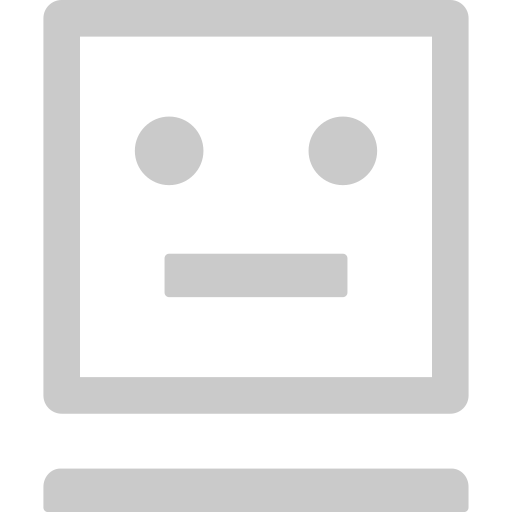
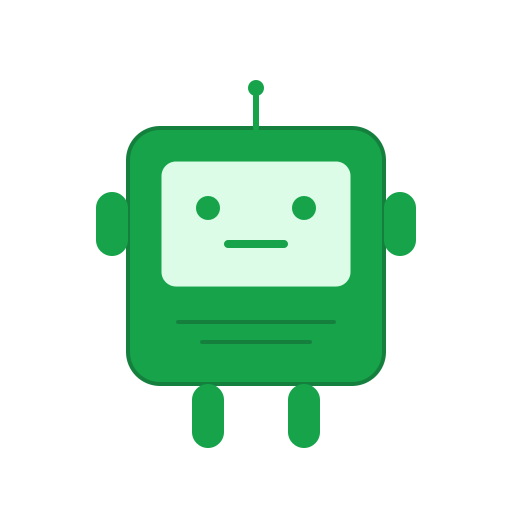
✨ feat(desktop): 添加更暗绿色机器人图标生成脚本
- 新增脚本以创建更暗绿色机器人图标的SVG并转换为PNG格式
- 生成的图标文件保存至build目录，并复制到resources目录
- 更新聊天界面样式，使用更暗绿色以提升视觉一致性

diff --git a/desktop/create-darker-green-icon.js b/desktop/create-darker-green-icon.js
@@ -1,0 +1,60 @@
+const sharp = require('sharp');
+const fs = require('fs');
+
+// 创建更暗绿色机器人图标的SVG
+const darkerGreenRobotSvg = `<svg width="512" height="512" viewBox="0 0 512 512" xmlns="http://www.w3.org/2000/svg">
+  <!-- 机器人主体 -->
+  <rect x="128" y="128" width="256" height="256" rx="32" fill="#16a34a" stroke="#15803d" stroke-width="4"/>
+
+  <!-- 机器人头部（显示器） -->
+  <rect x="160" y="160" width="192" height="128" rx="16" fill="#dcfce7" stroke="#16a34a" stroke-width="3"/>
+
+  <!-- 眼睛 -->
+  <circle cx="208" cy="208" r="12" fill="#16a34a"/>
+  <circle cx="304" cy="208" r="12" fill="#16a34a"/>
+
+  <!-- 嘴巴 -->
+  <rect x="224" y="240" width="64" height="8" rx="4" fill="#16a34a"/>
+
+  <!-- 天线 -->
+  <line x1="256" y1="128" x2="256" y2="96" stroke="#16a34a" stroke-width="6" stroke-linecap="round"/>
+  <circle cx="256" cy="88" r="8" fill="#16a34a"/>
+
+  <!-- 手臂 -->
+  <rect x="96" y="192" width="32" height="64" rx="16" fill="#16a34a"/>
+  <rect x="384" y="192" width="32" height="64" rx="16" fill="#16a34a"/>
+
+  <!-- 腿部 -->
+  <rect x="192" y="384" width="32" height="64" rx="16" fill="#16a34a"/>
+  <rect x="288" y="384" width="32" height="64" rx="16" fill="#16a34a"/>
+
+  <!-- 身体装饰线条 -->
+  <rect x="176" y="320" width="160" height="4" rx="2" fill="#15803d"/>
+  <rect x="200" y="340" width="112" height="4" rx="2" fill="#15803d"/>
+</svg>`;
+
+// 保存SVG文件用于调试
+fs.writeFileSync('darker-green-robot-icon.svg', darkerGreenRobotSvg);
+
+// 转换为PNG
+sharp(Buffer.from(darkerGreenRobotSvg))
+  .png()
+  .toFile('build/icon.png')
+  .then(() => {
+    console.log('✅ 更暗绿色机器人图标已生成');
+
+    // 复制到resources目录
+    fs.copyFileSync('build/icon.png', 'resources/icon.png');
+    console.log('✅ 已复制到resources目录');
+
+    // 检查文件大小
+    const stats = fs.statSync('build/icon.png');
+    console.log('图标文件大小:', (stats.size / 1024).toFixed(2), 'KB');
+
+    // 清理临时文件
+    fs.unlinkSync('create-darker-green-icon.js');
+  })
+  .catch(err => {
+    console.error('❌ 生成失败:', err);
+    fs.unlinkSync('create-darker-green-icon.js');
+  });

diff --git a/desktop/create-green-icon.js b/desktop/create-green-icon.js
@@ -1,0 +1,60 @@
+const sharp = require('sharp');
+const fs = require('fs');
+
+// 创建绿色机器人图标的SVG
+const greenRobotSvg = `<svg width="512" height="512" viewBox="0 0 512 512" xmlns="http://www.w3.org/2000/svg">
+  <!-- 机器人主体 -->
+  <rect x="128" y="128" width="256" height="256" rx="32" fill="#4ade80" stroke="#22c55e" stroke-width="4"/>
+
+  <!-- 机器人头部（显示器） -->
+  <rect x="160" y="160" width="192" height="128" rx="16" fill="#dcfce7" stroke="#4ade80" stroke-width="3"/>
+
+  <!-- 眼睛 -->
+  <circle cx="208" cy="208" r="12" fill="#4ade80"/>
+  <circle cx="304" cy="208" r="12" fill="#4ade80"/>
+
+  <!-- 嘴巴 -->
+  <rect x="224" y="240" width="64" height="8" rx="4" fill="#4ade80"/>
+
+  <!-- 天线 -->
+  <line x1="256" y1="128" x2="256" y2="96" stroke="#4ade80" stroke-width="6" stroke-linecap="round"/>
+  <circle cx="256" cy="88" r="8" fill="#4ade80"/>
+
+  <!-- 手臂 -->
+  <rect x="96" y="192" width="32" height="64" rx="16" fill="#4ade80"/>
+  <rect x="384" y="192" width="32" height="64" rx="16" fill="#4ade80"/>
+
+  <!-- 腿部 -->
+  <rect x="192" y="384" width="32" height="64" rx="16" fill="#4ade80"/>
+  <rect x="288" y="384" width="32" height="64" rx="16" fill="#4ade80"/>
+
+  <!-- 身体装饰线条 -->
+  <rect x="176" y="320" width="160" height="4" rx="2" fill="#22c55e"/>
+  <rect x="200" y="340" width="112" height="4" rx="2" fill="#22c55e"/>
+</svg>`;
+
+// 保存SVG文件用于调试
+fs.writeFileSync('green-robot-icon.svg', greenRobotSvg);
+
+// 转换为PNG
+sharp(Buffer.from(greenRobotSvg))
+  .png()
+  .toFile('build/icon.png')
+  .then(() => {
+    console.log('✅ 绿色机器人图标已生成');
+
+    // 复制到resources目录
+    fs.copyFileSync('build/icon.png', 'resources/icon.png');
+    console.log('✅ 已复制到resources目录');
+
+    // 检查文件大小
+    const stats = fs.statSync('build/icon.png');
+    console.log('图标文件大小:', (stats.size / 1024).toFixed(2), 'KB');
+
+    // 清理临时文件
+    fs.unlinkSync('create-green-icon.js');
+  })
+  .catch(err => {
+    console.error('❌ 生成失败:', err);
+    fs.unlinkSync('create-green-icon.js');
+  });

diff --git a/desktop/src/renderer/src/assets/chat-animations.css b/desktop/src/renderer/src/assets/chat-animations.css
@@ -56,8 +56,8 @@
 }
 
 .chat-input-focus:focus {
-  border-color: #667eea !important;
-  box-shadow: 0 0 0 2px rgba(102, 126, 234, 0.2) !important;
+  border-color: #16a34a !important;
+  box-shadow: 0 0 0 2px rgba(22, 163, 74, 0.2) !important;
 }
 
 /* 按钮悬停效果 */
@@ -130,7 +130,7 @@
 .empty-state-icon {
   font-size: 64px;
   margin-bottom: 24px;
-  color: #667eea;
+  color: #16a34a;
 }
 
 .empty-state-title {
@@ -178,7 +178,7 @@
 }
 
 .message-bubble.user {
-  background: linear-gradient(135deg, #667eea 0%, #764ba2 100%);
+  background: linear-gradient(135deg, #16a34a 0%, #15803d 100%);
   border-radius: 16px 16px 4px 16px;
   color: #ffffff;
 }
@@ -225,7 +225,7 @@
 }
 
 .message-avatar.assistant {
-  color: #667eea;
+  color: #16a34a;
 }
 
 .message-sender {
@@ -238,7 +238,7 @@
 }
 
 .message-sender.assistant {
-  color: #667eea;
+  color: #16a34a;
 }
 
 .message-timestamp {
@@ -319,7 +319,7 @@
 }
 
 .input-textarea:focus {
-  border-color: #667eea;
+  border-color: #16a34a;
   box-shadow: 0 0 0 2px rgba(102, 126, 234, 0.2);
 }
 
@@ -334,7 +334,7 @@
 /* 鼠标触碰动效已移除 */
 
 .input-button.send {
-  background: linear-gradient(135deg, #667eea 0%, #764ba2 100%);
+  background: linear-gradient(135deg, #16a34a 0%, #15803d 100%);
   border: none;
   color: white;
 }
@@ -366,7 +366,7 @@
 
 .card-title-icon {
   font-size: 20px;
-  color: #667eea;
+  color: #16a34a;
 }
 
 .card-title-text {
@@ -399,7 +399,7 @@
 
 .history-session-item.current {
   background: #f0f5ff !important;
-  border: 2px solid #667eea !important;
+  border: 2px solid #16a34a !important;
 }
 
 .history-session-item:hover:not(.current) {
@@ -433,7 +433,7 @@
 }
 
 .history-session-title.current {
-  color: #667eea !important;
+  color: #16a34a !important;
 }
 
 .history-session-title:not(.current) {